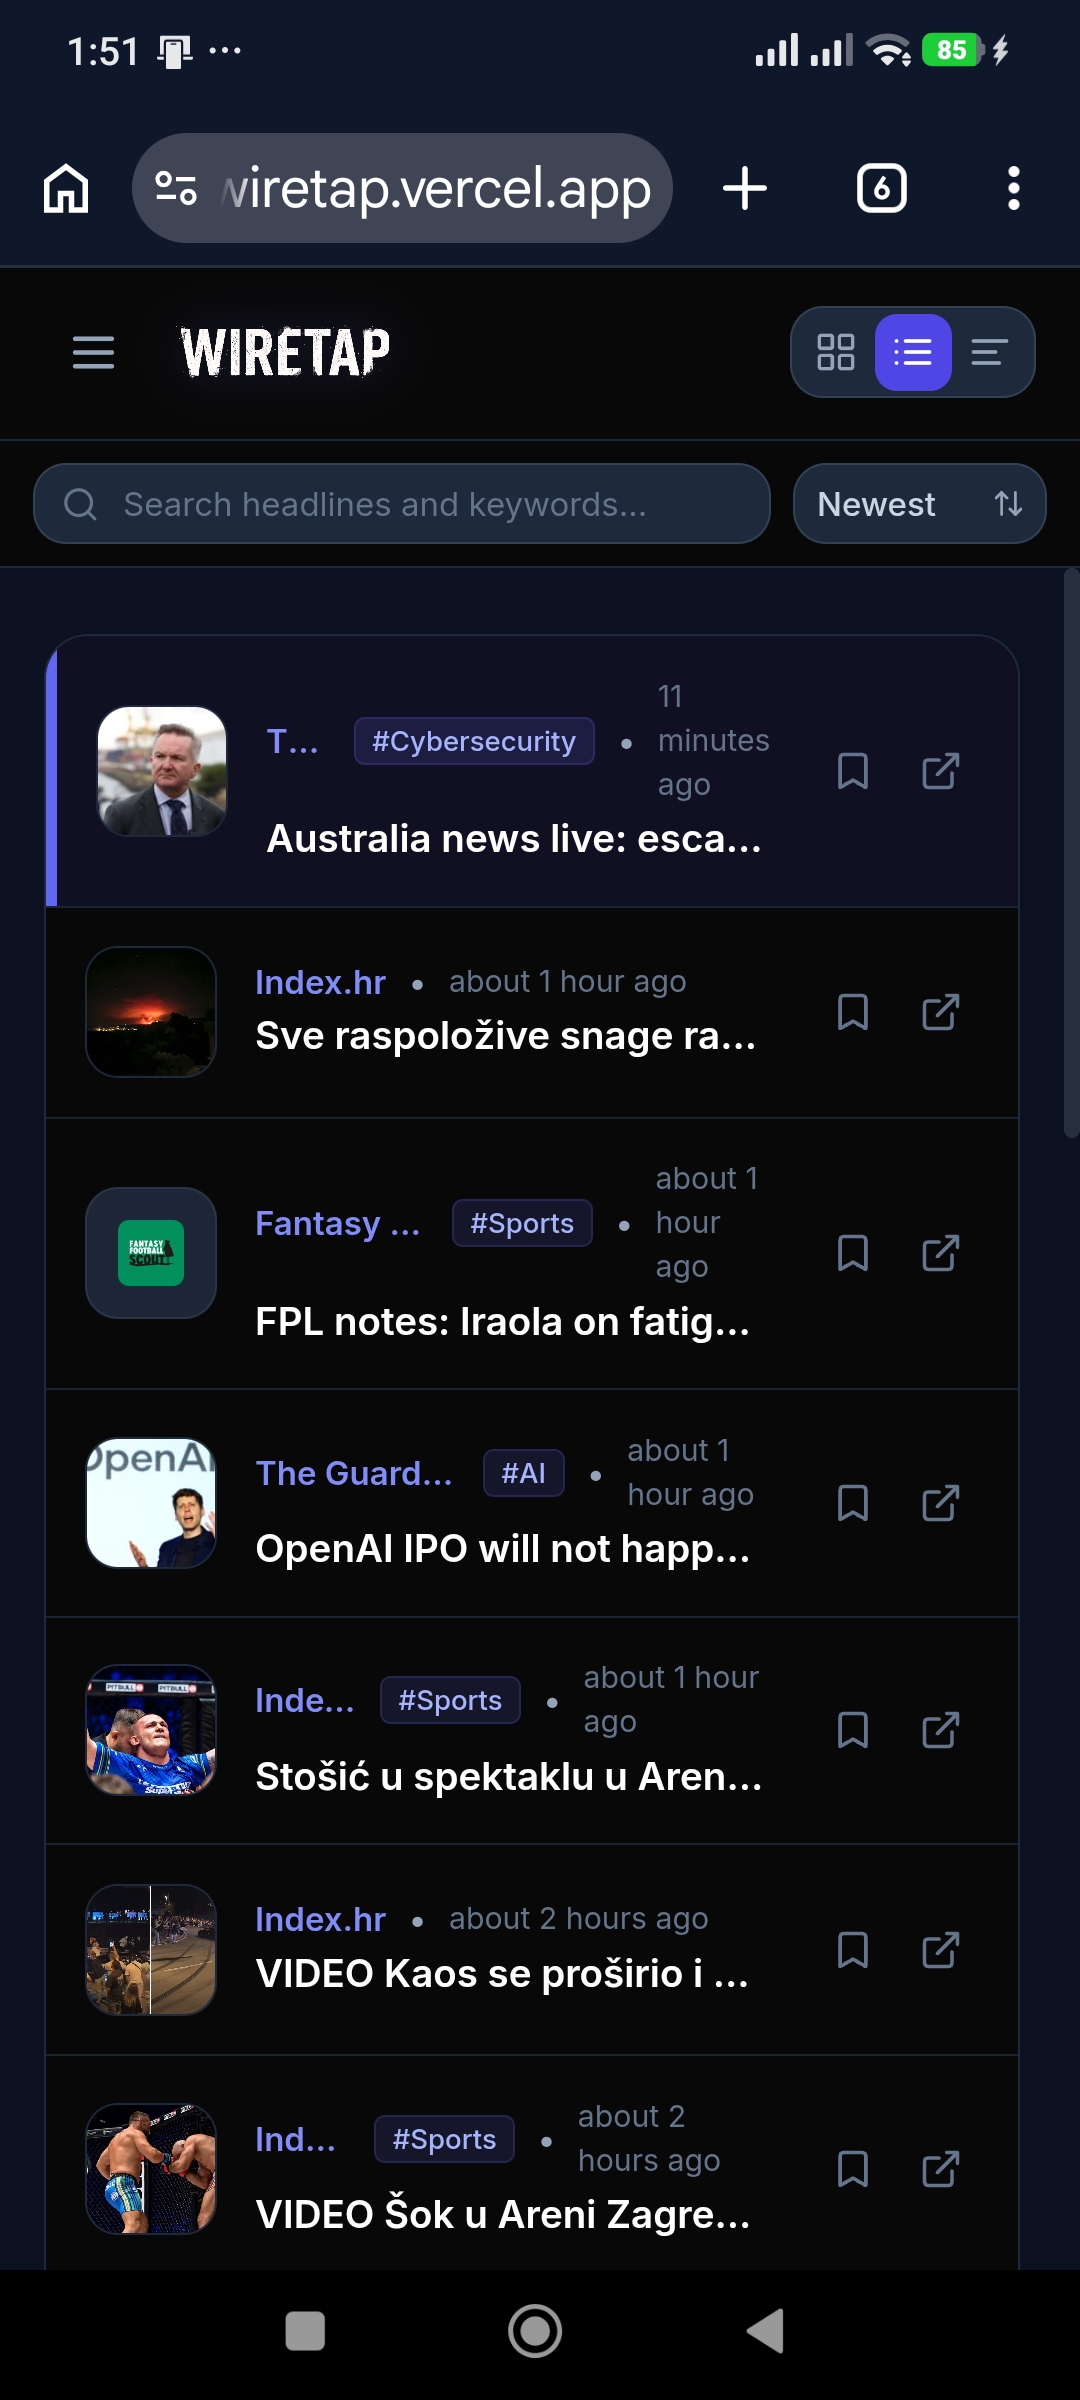
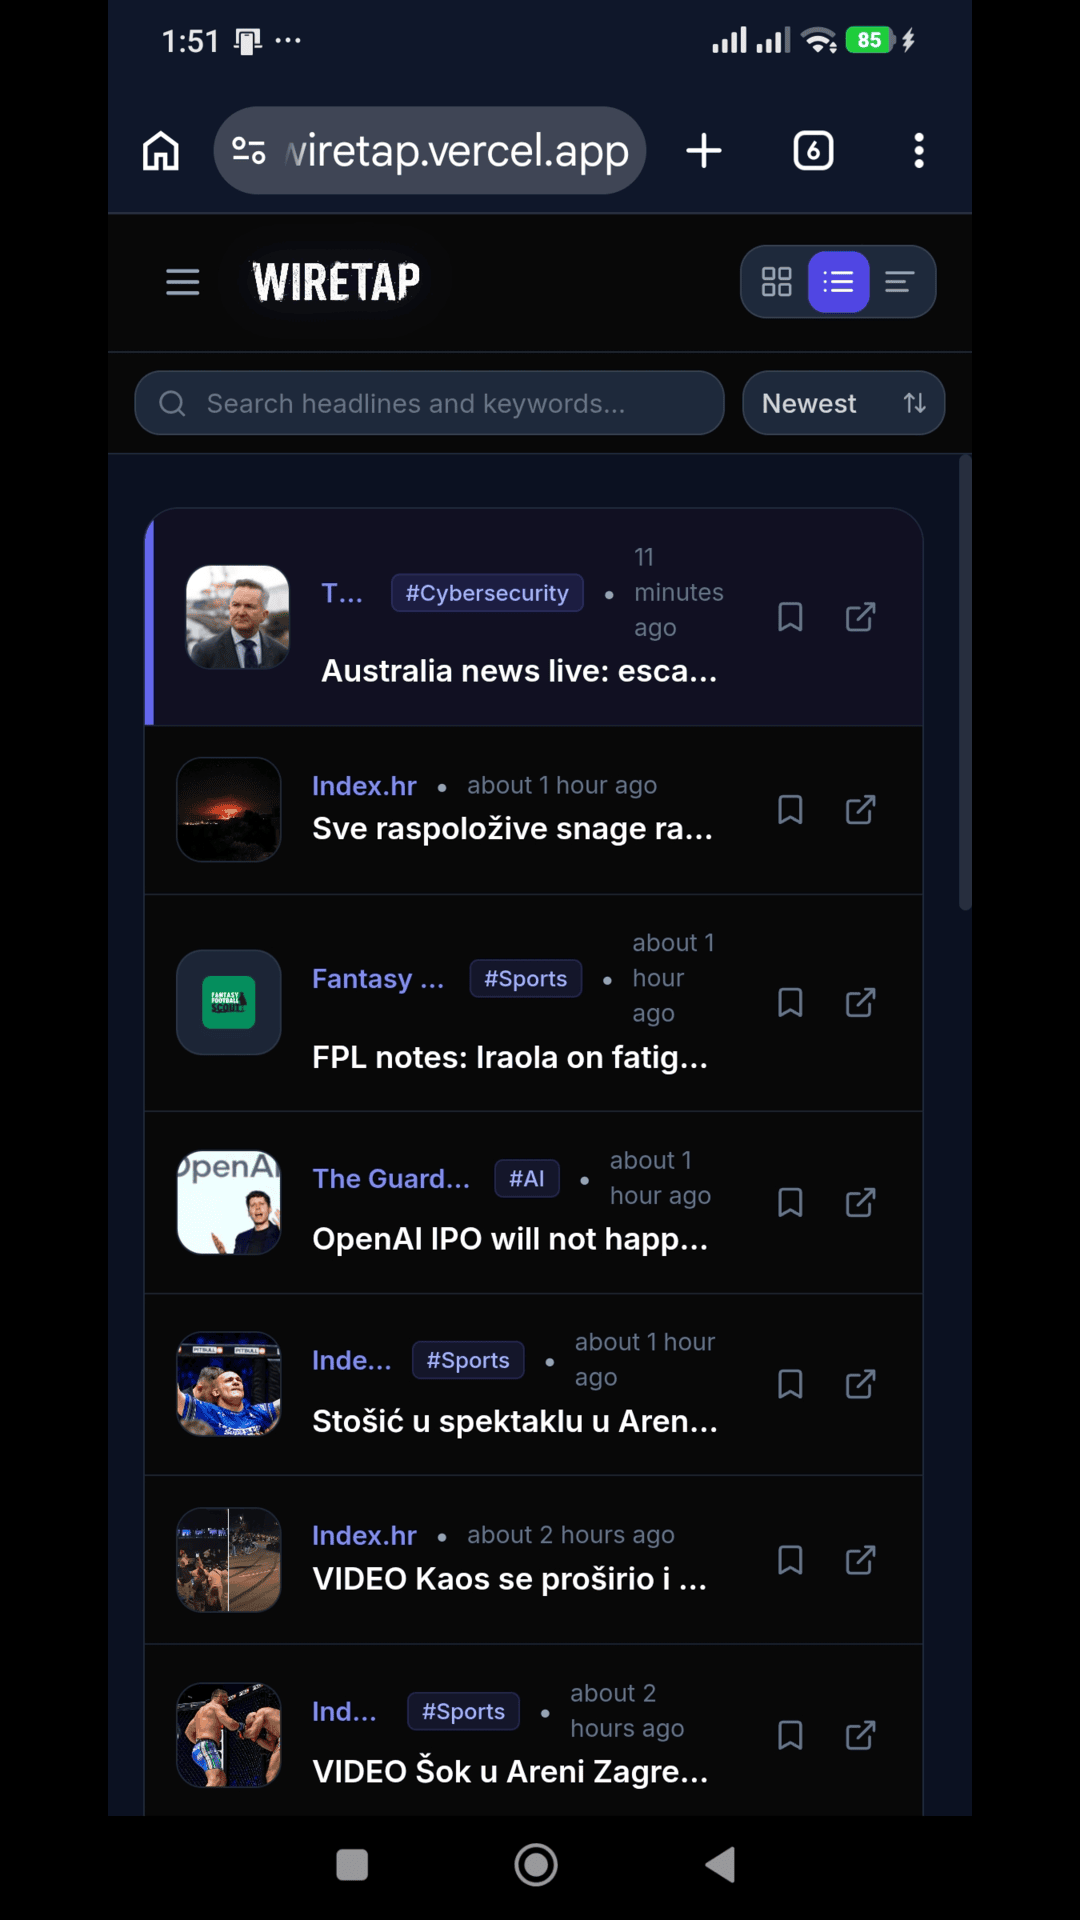
chore: update pwa desktop and mobile app store screenshots

diff --git a/CHANGELOG.md b/CHANGELOG.md
@@ -2,6 +2,13 @@
 
 All notable changes to the Wiretap project will be documented in this file.
 
+### [2026-09-13] - Update PWA Desktop and Mobile App Store Screenshots
+- **Files Changed**:
+  - `public/screenshot-desktop.png` (Modified)
+  - `public/screenshot-mobile.png` (Modified)
+- **Details**:
+  - Refreshed high-resolution desktop and mobile PWA screenshots for accurate preview cards in application stores and browser install banners.
+
 ### [2026-09-13] - Harden Vite Watcher with Polling for Windows File System
 - **Files Changed**:
   - `vite.config.ts` (Modified)
